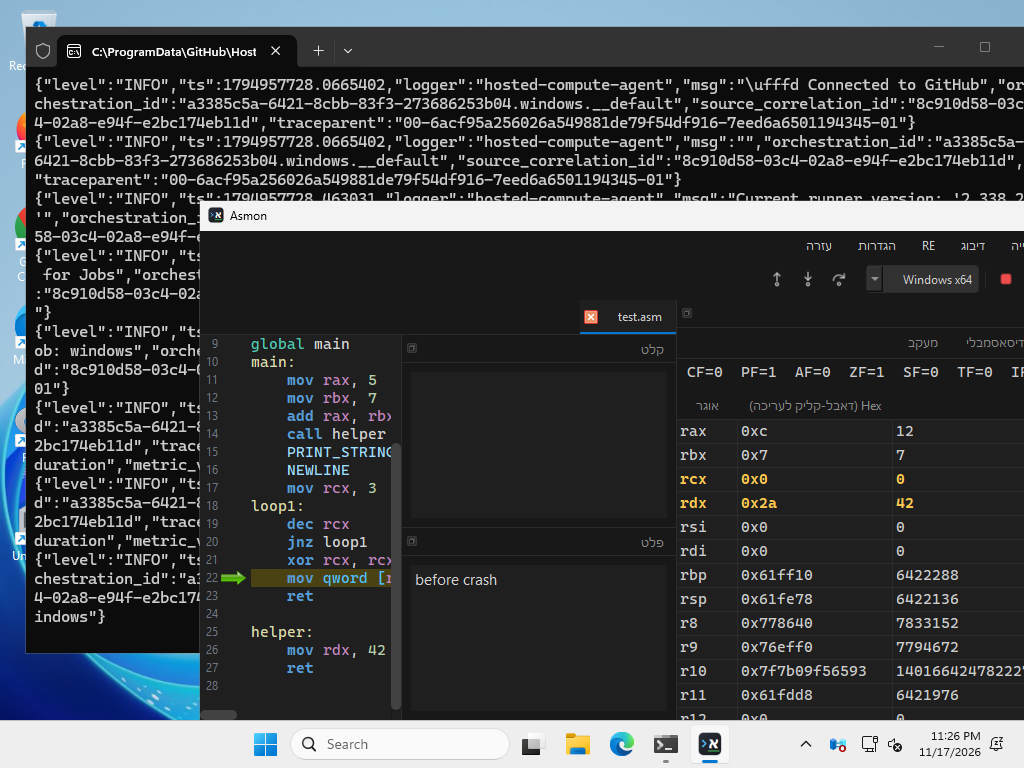
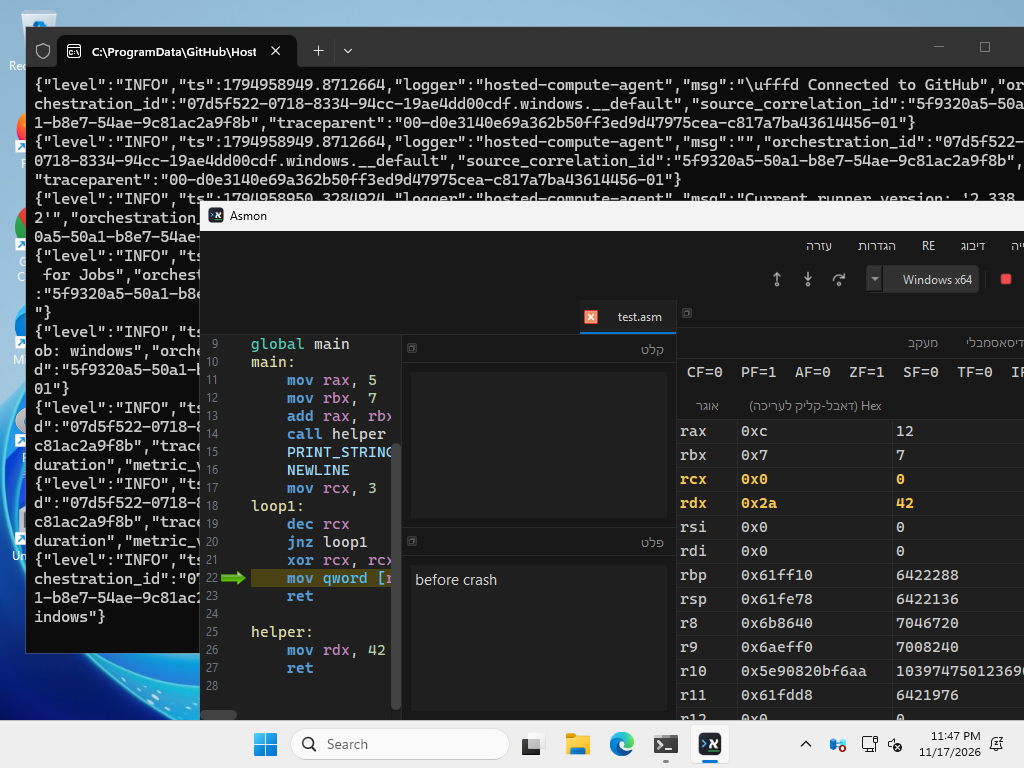
PROGRESS: how to download and publish a release
Claude-Session: https://claude.ai/code/session_01CUM1Y3Jgm2r24arwG7tM8D

diff --git a/PROGRESS.md b/PROGRESS.md
@@ -339,5 +339,14 @@
 
 ---
 
+## איך מורידים ומפרסמים
+- **לנסות עכשיו:** בדף Actions, בהרצה האחרונה שהצליחה על `main`, יש artifact בשם `asmon-installer-and-portable` עם המתקין ושני קבצי ה-zip. צריך להיות מחובר ל-GitHub כדי להוריד.
+- **Release רשמי:** מהסביבה של Claude אי אפשר לדחוף תגים, כי מדיניות ה-proxy חוסמת את זה. כדי ליצור release:
+  1. נכנסים ל-Releases ולוחצים "Draft a new release".
+  2. יוצרים תג `v0.1.0` ומסמנים Pre-release.
+  3. לוחצים Publish.
+
+  ה-CI ירוץ ויצרף לבד את המתקין ואת ה-zip-ים (`gh release upload`).
+
 ## הבא
 מחכה לרשימת השינויים שלך. כל מה שמופיע ב"מגבלות ידועות" למעלה הוא מועמד טבעי לסבב הבא.
